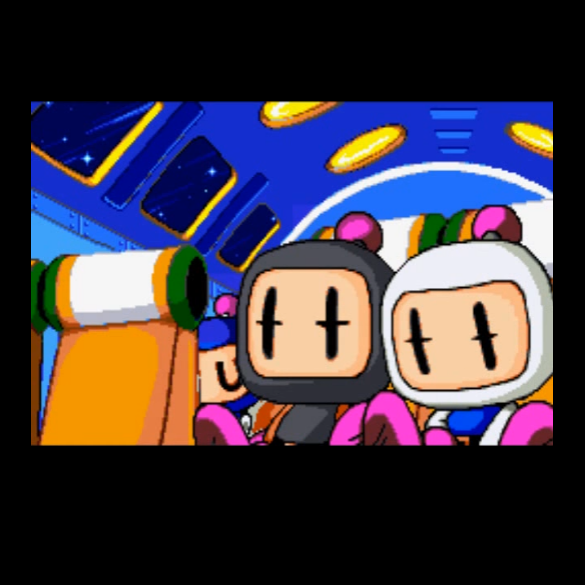
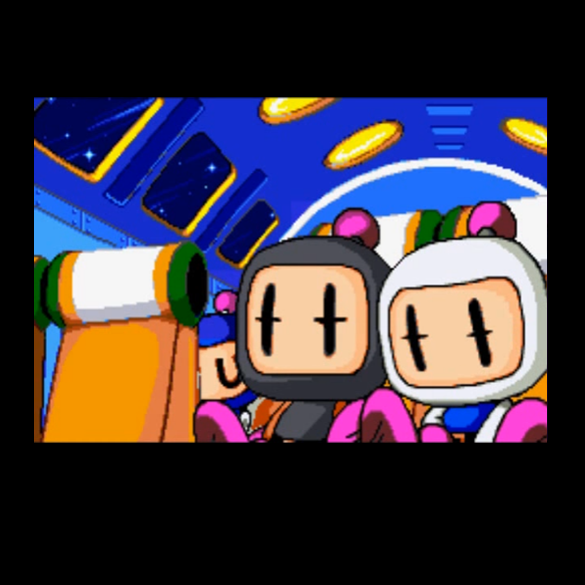
Sửa next & prev.

Changed region(s): [[0.0308, 0.1538, 0.9538, 0.7692]]

diff --git a/BombHoiHa/src/gui/InstructionPanel.java b/BombHoiHa/src/gui/InstructionPanel.java
@@ -32,15 +32,15 @@ public class InstructionPanel extends JPanel {
                 if (mouseEvent.getSource().equals(btnNext)) {
                     if (part == 0) {
                         part = 1;
-                        ImageIcon imageIcon = new ImageIcon("resources/System/prev-1.png");
+                        ImageIcon imageIcon = new ImageIcon("resources/System/prev-0.png");
                         btnNext.setIcon(imageIcon);
                         btnNext.setBounds(btnBackToMenu.getX() - 148, 509, imageIcon.getIconWidth(), imageIcon.getIconHeight());
                         repaint();
                     } else {
                         part = 0;
-                        ImageIcon imageIcon = new ImageIcon("resources/System/next-1.png");
+                        ImageIcon imageIcon = new ImageIcon("resources/System/next-0.png");
                         btnNext.setIcon(imageIcon);
-                        btnNext.setBounds(btnBackToMenu.getX() + 295, 509, imageIcon.getIconWidth(), imageIcon.getIconHeight());
+                        btnNext.setBounds(btnBackToMenu.getX() + 363, 509, imageIcon.getIconWidth(), imageIcon.getIconHeight());
                         repaint();
                     }
                     repaint();
@@ -97,7 +97,7 @@ public class InstructionPanel extends JPanel {
 
         imageIcon = new ImageIcon("resources/System/next-0.png");
         btnNext = new JLabel(imageIcon);
-        btnNext.setBounds(btnBackToMenu.getX() + 295, 509, imageIcon.getIconWidth(), imageIcon.getIconHeight());
+        btnNext.setBounds(btnBackToMenu.getX() + 363, 509, imageIcon.getIconWidth(), imageIcon.getIconHeight());
         btnNext.setFocusable(false);
         add(btnNext);
         btnNext.addMouseListener(mouseAdapter);

diff --git a/BombHoiHa/src/gui/StoryIntroPanel.java b/BombHoiHa/src/gui/StoryIntroPanel.java
@@ -88,21 +88,21 @@ public class StoryIntroPanel extends JPanel {
 
         ImageIcon imageIcon = new ImageIcon("resources/System/next-0.png");
         btnNext = new JLabel(imageIcon);
-        btnNext.setBounds(422, 35, imageIcon.getIconWidth(), imageIcon.getIconHeight());
+        btnNext.setBounds(520, 237, imageIcon.getIconWidth(), imageIcon.getIconHeight());
         btnNext.setFocusable(false);
         add(btnNext);
         btnNext.addMouseListener(mouseAdapter);
 
         imageIcon = new ImageIcon("resources/System/prev-0.png");
         btnPrev = new JLabel(imageIcon);
-        btnPrev.setBounds(30, 35, imageIcon.getIconWidth(), imageIcon.getIconHeight());
+        btnPrev.setBounds(0, 237, imageIcon.getIconWidth(), imageIcon.getIconHeight());
         btnPrev.setFocusable(false);
         add(btnPrev);
         btnPrev.addMouseListener(mouseAdapter);
 
         imageIcon = new ImageIcon("resources/System/skip-0.png");
         btnSkip = new JLabel(imageIcon);
-        btnSkip.setBounds(228, 15, 108, 40);
+        btnSkip.setBounds(420, 15, 108, 40);
         btnSkip.setFocusable(false);
         add(btnSkip);
         btnSkip.addMouseListener(mouseAdapter);

diff --git a/BombHoiHa/src/gui/StoryEndPanel.java b/BombHoiHa/src/gui/StoryEndPanel.java
@@ -89,21 +89,21 @@ public class StoryEndPanel extends JPanel {
 
         ImageIcon imageIcon = new ImageIcon("resources/System/next-0.png");
         btnNext = new JLabel(imageIcon);
-        btnNext.setBounds(422, 35, imageIcon.getIconWidth(), imageIcon.getIconHeight());
+        btnNext.setBounds(522, 244, imageIcon.getIconWidth(), imageIcon.getIconHeight());
         btnNext.setFocusable(false);
         add(btnNext);
         btnNext.addMouseListener(mouseAdapter);
 
         imageIcon = new ImageIcon("resources/System/prev-0.png");
         btnPrev = new JLabel(imageIcon);
-        btnPrev.setBounds(30, 35, imageIcon.getIconWidth(), imageIcon.getIconHeight());
+        btnPrev.setBounds(0, 244, imageIcon.getIconWidth(), imageIcon.getIconHeight());
         btnPrev.setFocusable(false);
         add(btnPrev);
         btnPrev.addMouseListener(mouseAdapter);
 
         imageIcon = new ImageIcon("resources/System/skip-0.png");
         btnSkip = new JLabel(imageIcon);
-        btnSkip.setBounds(228, 15, 108, 40);
+        btnSkip.setBounds(422, 15, 108, 40);
         btnSkip.setFocusable(false);
         add(btnSkip);
         btnSkip.addMouseListener(mouseAdapter);
